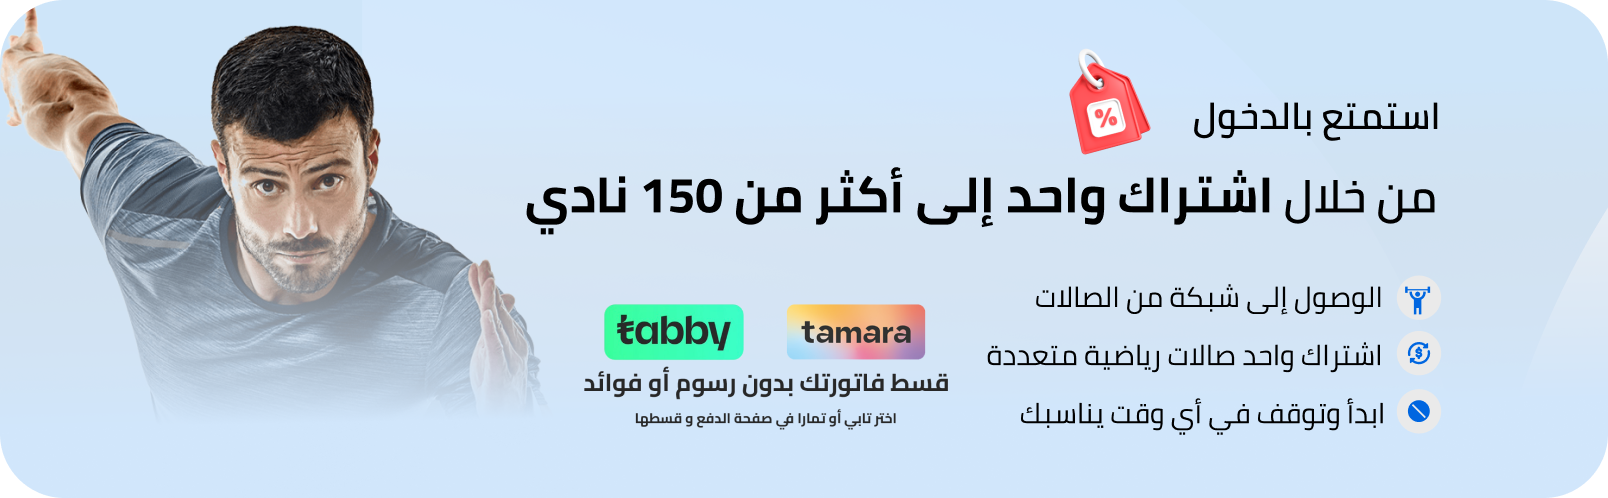
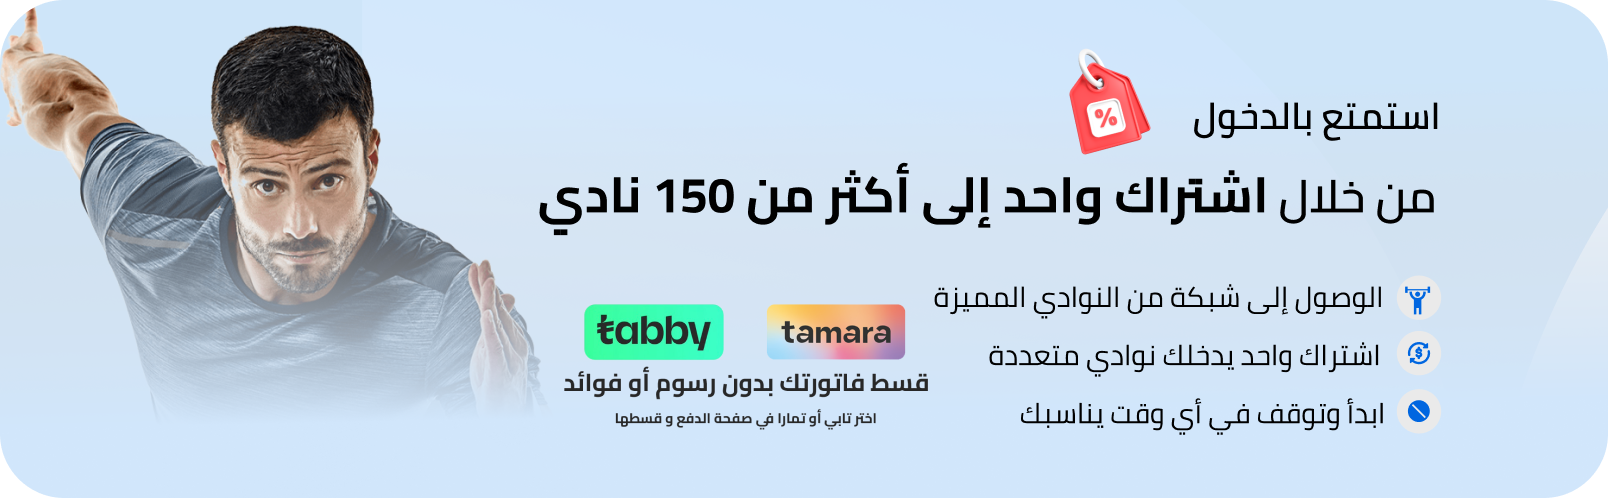
change packages and text

Changed region(s): [[0.342, 0.5723, 0.8706, 0.753], [0.3109, 0.3313, 0.9017, 0.4819], [0.342, 0.753, 0.5908, 0.8735]]

diff --git a/index.html b/index.html
@@ -169,7 +169,7 @@
     <section class="application-services mt-5 pt-5" id="services">
       <div class="container">
         <div class="title text-center">
-          <h2>خدمات تطبيق Urpass</h2>
+          <h2>خدمات تطبيق URPASS</h2>
         </div>
         <div class="mt-5 img-app" data-aos="fade-up">
           <img src="images/bg-applcation-1.png" class="img-fluid" alt="" />
@@ -212,7 +212,7 @@
           <h2>اسعار الباقات في URPASS</h2>
         </div>
         <div class="row mt-5">
-          <div class="col-xl-3 col-lg-4 col-md-6 p-0 mb-3">
+          <div class="col-xl-3 col-lg-4 col-md-6 mb-3">
             <div class="box box-1 shadow-sm border">
               <div class="desc border-bottom p-3 mt-3">
                 <h5 class="fw-bolder">الباقة الأساسية</h5>
@@ -245,7 +245,7 @@
               <div class="border-bottom my-2 p-3">
                 <div class="d-flex justify-content-between align-items-center mb-2">
                   <h6>فترة الالتزام</h6>
-                  <h6 class="text-secondary">12 شهر</h6>
+                  <h6 class="text-secondary">شهر</h6>
                 </div>
                 <div class="d-flex justify-content-between align-items-center">
                   <h6>وقت الدخول</h6>
@@ -257,7 +257,7 @@
                   <div class="rounded-circle">
                     <i class="fa-solid fa-check"></i>
                   </div>
-                  <p class="m-0">الدخول ل30 نادي من اختيارك</p>
+                  <p class="m-0">الدخول لـ 30 نادي من اختيارك</p>
                 </div>
                 <div class="icon d-flex gap-2 align-items-center mb-2">
                   <div class="rounded-circle">
@@ -283,11 +283,11 @@
               </div>
             </div>
           </div>
-          <div class="col-xl-3 col-lg-4 col-md-6 p-0 mb-3">
+          <div class="col-xl-3 col-lg-4 col-md-6 mb-3">
             <div class="box box-2 text-white shadow-sm border">
               <div class="desc border-bottom p-3 mt-3">
                 <h5 class="fw-bolder">الباقة الذهبية</h5>
-                <p class="text-dark">أندية أكثر بمزايا وسعر مناسب</p>
+                <p>أندية أكثر بمزايا وسعر مناسب</p>
               </div>
               <div class="price border-bottom my-2 p-3">
                 <h5 class="fw-bolder">345 <span class="text-white fw-normal">ريال</span></h5>
@@ -320,7 +320,7 @@
               <div class="border-bottom my-2 p-3">
                 <div class="d-flex justify-content-between align-items-center mb-2">
                   <h6>فترة الالتزام</h6>
-                  <h6 class="text-white">12 شهر</h6>
+                  <h6 class="text-white">شهر</h6>
                 </div>
                 <div class="d-flex justify-content-between align-items-center">
                   <h6>وقت الدخول</h6>
@@ -332,7 +332,7 @@
                   <div class="rounded-circle">
                     <i class="fa-solid fa-check"></i>
                   </div>
-                  <p class="m-0 text-white">الدخول ل40 نادي من اختيارك</p>
+                  <p class="m-0 text-white">الدخول لـ 40 نادي من اختيارك</p>
                 </div>
                 <div class="icon d-flex gap-2 align-items-center mb-2">
                   <div class="rounded-circle">
@@ -358,7 +358,7 @@
               </div>
             </div>
           </div>
-          <div class="col-xl-3 col-lg-4 col-md-6 p-0 mb-3">
+          <div class="col-xl-3 col-lg-4 col-md-6 mb-3">
             <div class="box box-3 text-white shadow-sm border">
               <div class="desc border-bottom p-3 mt-3 position-relative">
                 <span class="rounded-pill">الباقة الشائعة</span>
@@ -396,7 +396,7 @@
               <div class="border-bottom my-2 p-3">
                 <div class="d-flex justify-content-between align-items-center mb-2">
                   <h6>فترة الالتزام</h6>
-                  <h6 class="text-white">12 شهر</h6>
+                  <h6 class="text-white">شهر</h6>
                 </div>
                 <div class="d-flex justify-content-between align-items-center">
                   <h6>وقت الدخول</h6>
@@ -408,7 +408,7 @@
                   <div class="rounded-circle">
                     <i class="fa-solid fa-check"></i>
                   </div>
-                  <p class="m-0 text-white">الدخول ل60 نادي من اختيارك</p>
+                  <p class="m-0 text-white">الدخول لـ 60 نادي من اختيارك</p>
                 </div>
                 <div class="icon d-flex gap-2 align-items-center mb-2">
                   <div class="rounded-circle">
@@ -434,14 +434,14 @@
               </div>
             </div>
           </div>
-          <div class="col-xl-3 col-lg-4 col-md-6 p-0 mb-3">
+          <div class="col-xl-3 col-lg-4 col-md-6 mb-3">
             <div class="box box-4 text-white shadow-sm border">
               <div class="desc border-bottom p-3 mt-3">
                 <h5 class="fw-bolder">الباقة الماسية</h5>
                 <p>أندية مميزة ومزايا أكثر بأسعار مناسبة</p>
               </div>
               <div class="price border-bottom my-2 p-3">
-                <h5 class="fw-bolder">900 <span class="text-white fw-normal">ريال</span></h5>
+                <h5 class="fw-bolder">999 <span class="text-white fw-normal">ريال</span></h5>
                 <p class="text-white">تدفع وتجدد شهرياً ( بشكل تلقائي )</p>
               </div>
               <div class="clubs border-bottom my-2 p-2">
@@ -465,7 +465,7 @@
               <div class="border-bottom my-2 p-3">
                 <div class="d-flex justify-content-between align-items-center mb-2">
                   <h6>فترة الالتزام</h6>
-                  <h6 class="text-white">12 شهر</h6>
+                  <h6 class="text-white">شهر</h6>
                 </div>
                 <div class="d-flex justify-content-between align-items-center">
                   <h6>وقت الدخول</h6>
@@ -477,7 +477,7 @@
                   <div class="rounded-circle">
                     <i class="fa-solid fa-check"></i>
                   </div>
-                  <p class="m-0 text-white">الدخول ل150 نادي من اختيارك</p>
+                  <p class="m-0 text-white">الدخول لـ 150 نادي من اختيارك</p>
                 </div>
                 <div class="icon d-flex gap-2 align-items-center mb-2">
                   <div class="rounded-circle">
@@ -515,13 +515,7 @@
             <div class="col-12 mb-3">
               <div class="logo">
                 <img src="images/logo-footer.png" alt="" />
-                <p class="text-white py-3">ابدأ الآن وجرب منتجنا</p>
-              </div>
-              <div class="searchBox col-lg-12 col-md-6">
-                <input class="searchInput" type="email" name="" placeholder="أدخل بريدك الإلكتروني" />
-                <button class="searchButton">
-                  <i class="fa-solid fa-arrow-right"></i>
-                </button>
+                <p class="text-white py-3">ابدأ الآن واستمتع بتجربة فريدة</p>
               </div>
               <ul class="list-unstyled mt-4 d-flex gap-4">
                 <li>
@@ -529,9 +523,6 @@
                 </li>
                 <li>
                   <a href="https://x.com/URPASS_SA" target="_blank"><i class="bi bi-twitter-x fa-lg"></i></a>
-                </li>
-                <li>
-                  <a href="#" target="_blank"><i class="fa-brands fa-snapchat fa-lg"></i></a>
                 </li>
                 <li>
                   <a href="https://linkedin.com/company/urpass" target="_blank"><i class="fa-brands fa-linkedin fa-lg"></i></a>

diff --git a/css/main.css b/css/main.css
@@ -161,7 +161,6 @@ textarea:focus {
 .home-orders .desc h3 {
   font-weight: 700;
   font-size: 40px;
-  font-family: myfont;
 }
 .home-orders .desc ul li {
   margin-bottom: 10px;
@@ -387,6 +386,7 @@ textarea:focus {
 }
 .packages .box p {
   font-size: 14px;
+  white-space: nowrap;
 }
 .packages button {
   background-color: #0d0d70;
